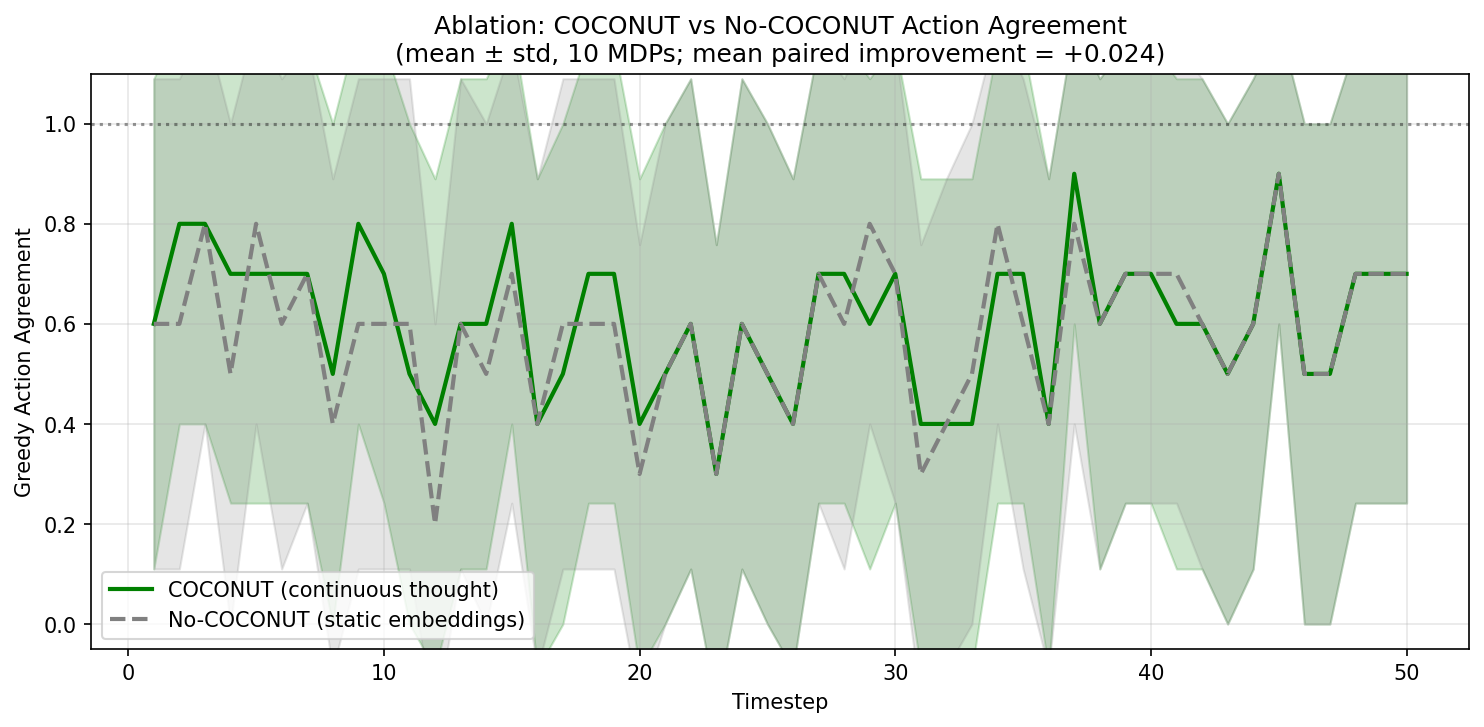
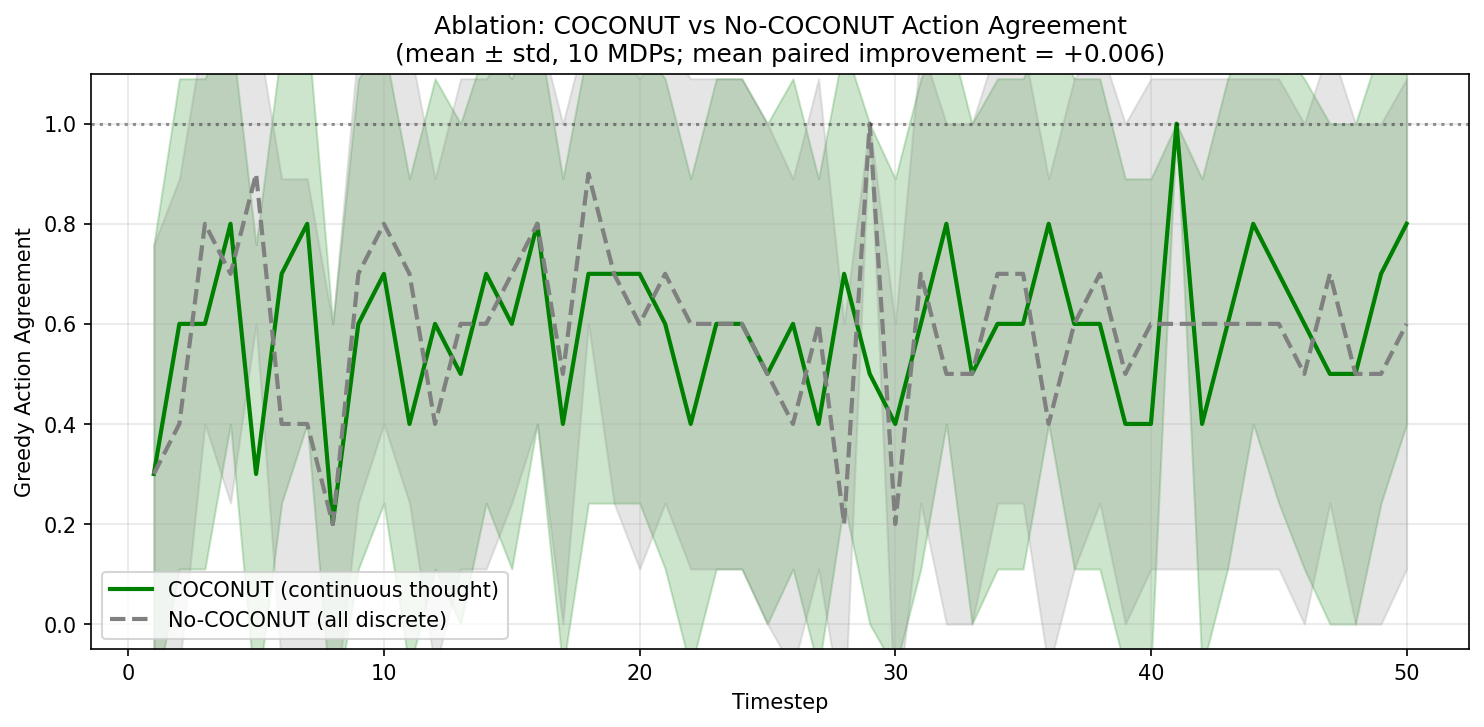
results of Hao-like experiment

Changed region(s): [[0.093, 0.0605, 0.9609, 0.9078], [0.558, 0.3026, 0.5889, 0.3329], [0.093, 0.8776, 0.124, 0.9078]]

diff --git a/tabular_q_learning/scripts/2_model.py b/tabular_q_learning/scripts/2_model.py
@@ -742,14 +742,15 @@ class COCONUTTransformer(nn.Module):
             # --- Chain continuous thoughts ---
             for j in range(n_continuous):
                 exp_idx = n_discrete + j
-                # Inject source hidden into target continuous-thought position
-                for b in range(B):
-                    if valid[b]:
-                        tgt = int(exp_pos_r[b, exp_idx].item())
-                        if detach:
-                            x[b, tgt, :] = h_last[b].detach()
-                        else:
-                            x[b, tgt, :] = h_last[b]
+                # Inject source hidden into target continuous-thought position.
+                # Use non-inplace index_put to avoid corrupting the autograd
+                # version counter on x, which would break backward().
+                valid_bs  = valid.nonzero(as_tuple=True)[0]          # [n_valid]
+                tgt_pos   = exp_pos_r[valid_bs, exp_idx].long()       # [n_valid]
+                src_vals  = h_last[valid_bs]                          # [n_valid, d]
+                if detach:
+                    src_vals = src_vals.detach()
+                x = torch.index_put(x, (valid_bs, tgt_pos), src_vals)
 
                 # Feed the (now-injected) continuous thought token
                 max_tgt = int(exp_pos_r[valid, exp_idx].max().item()) + 1
